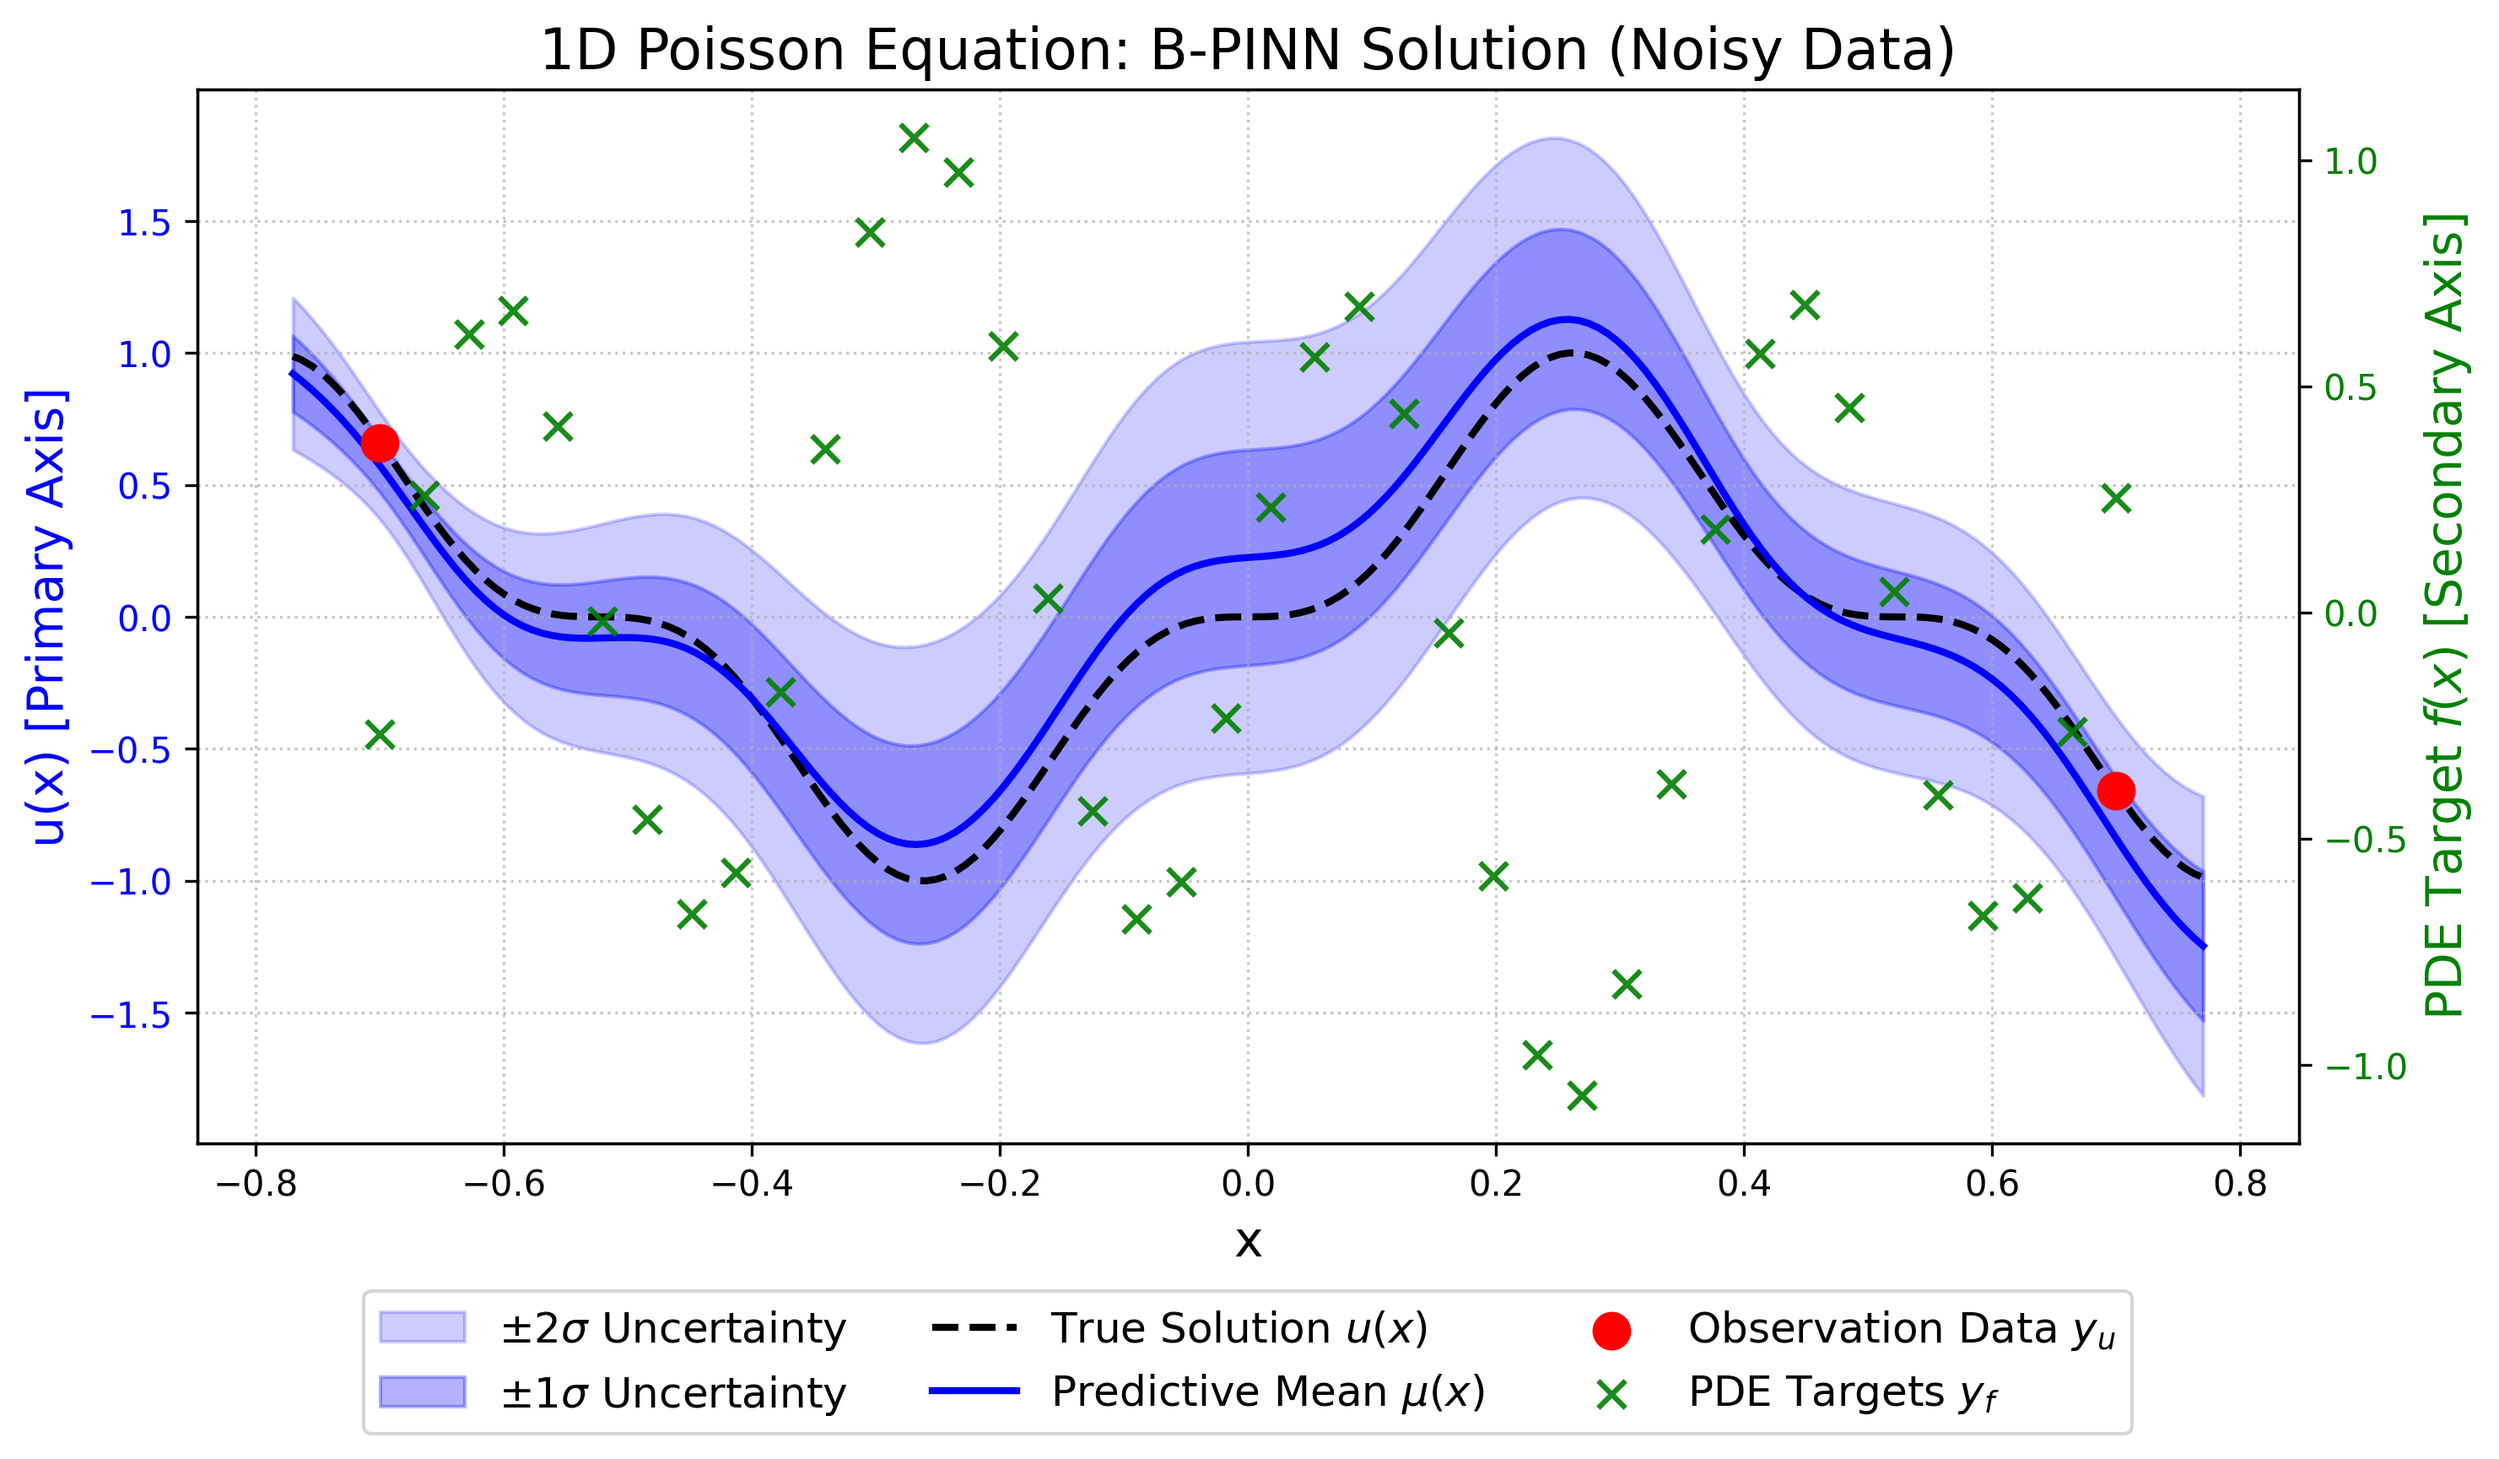
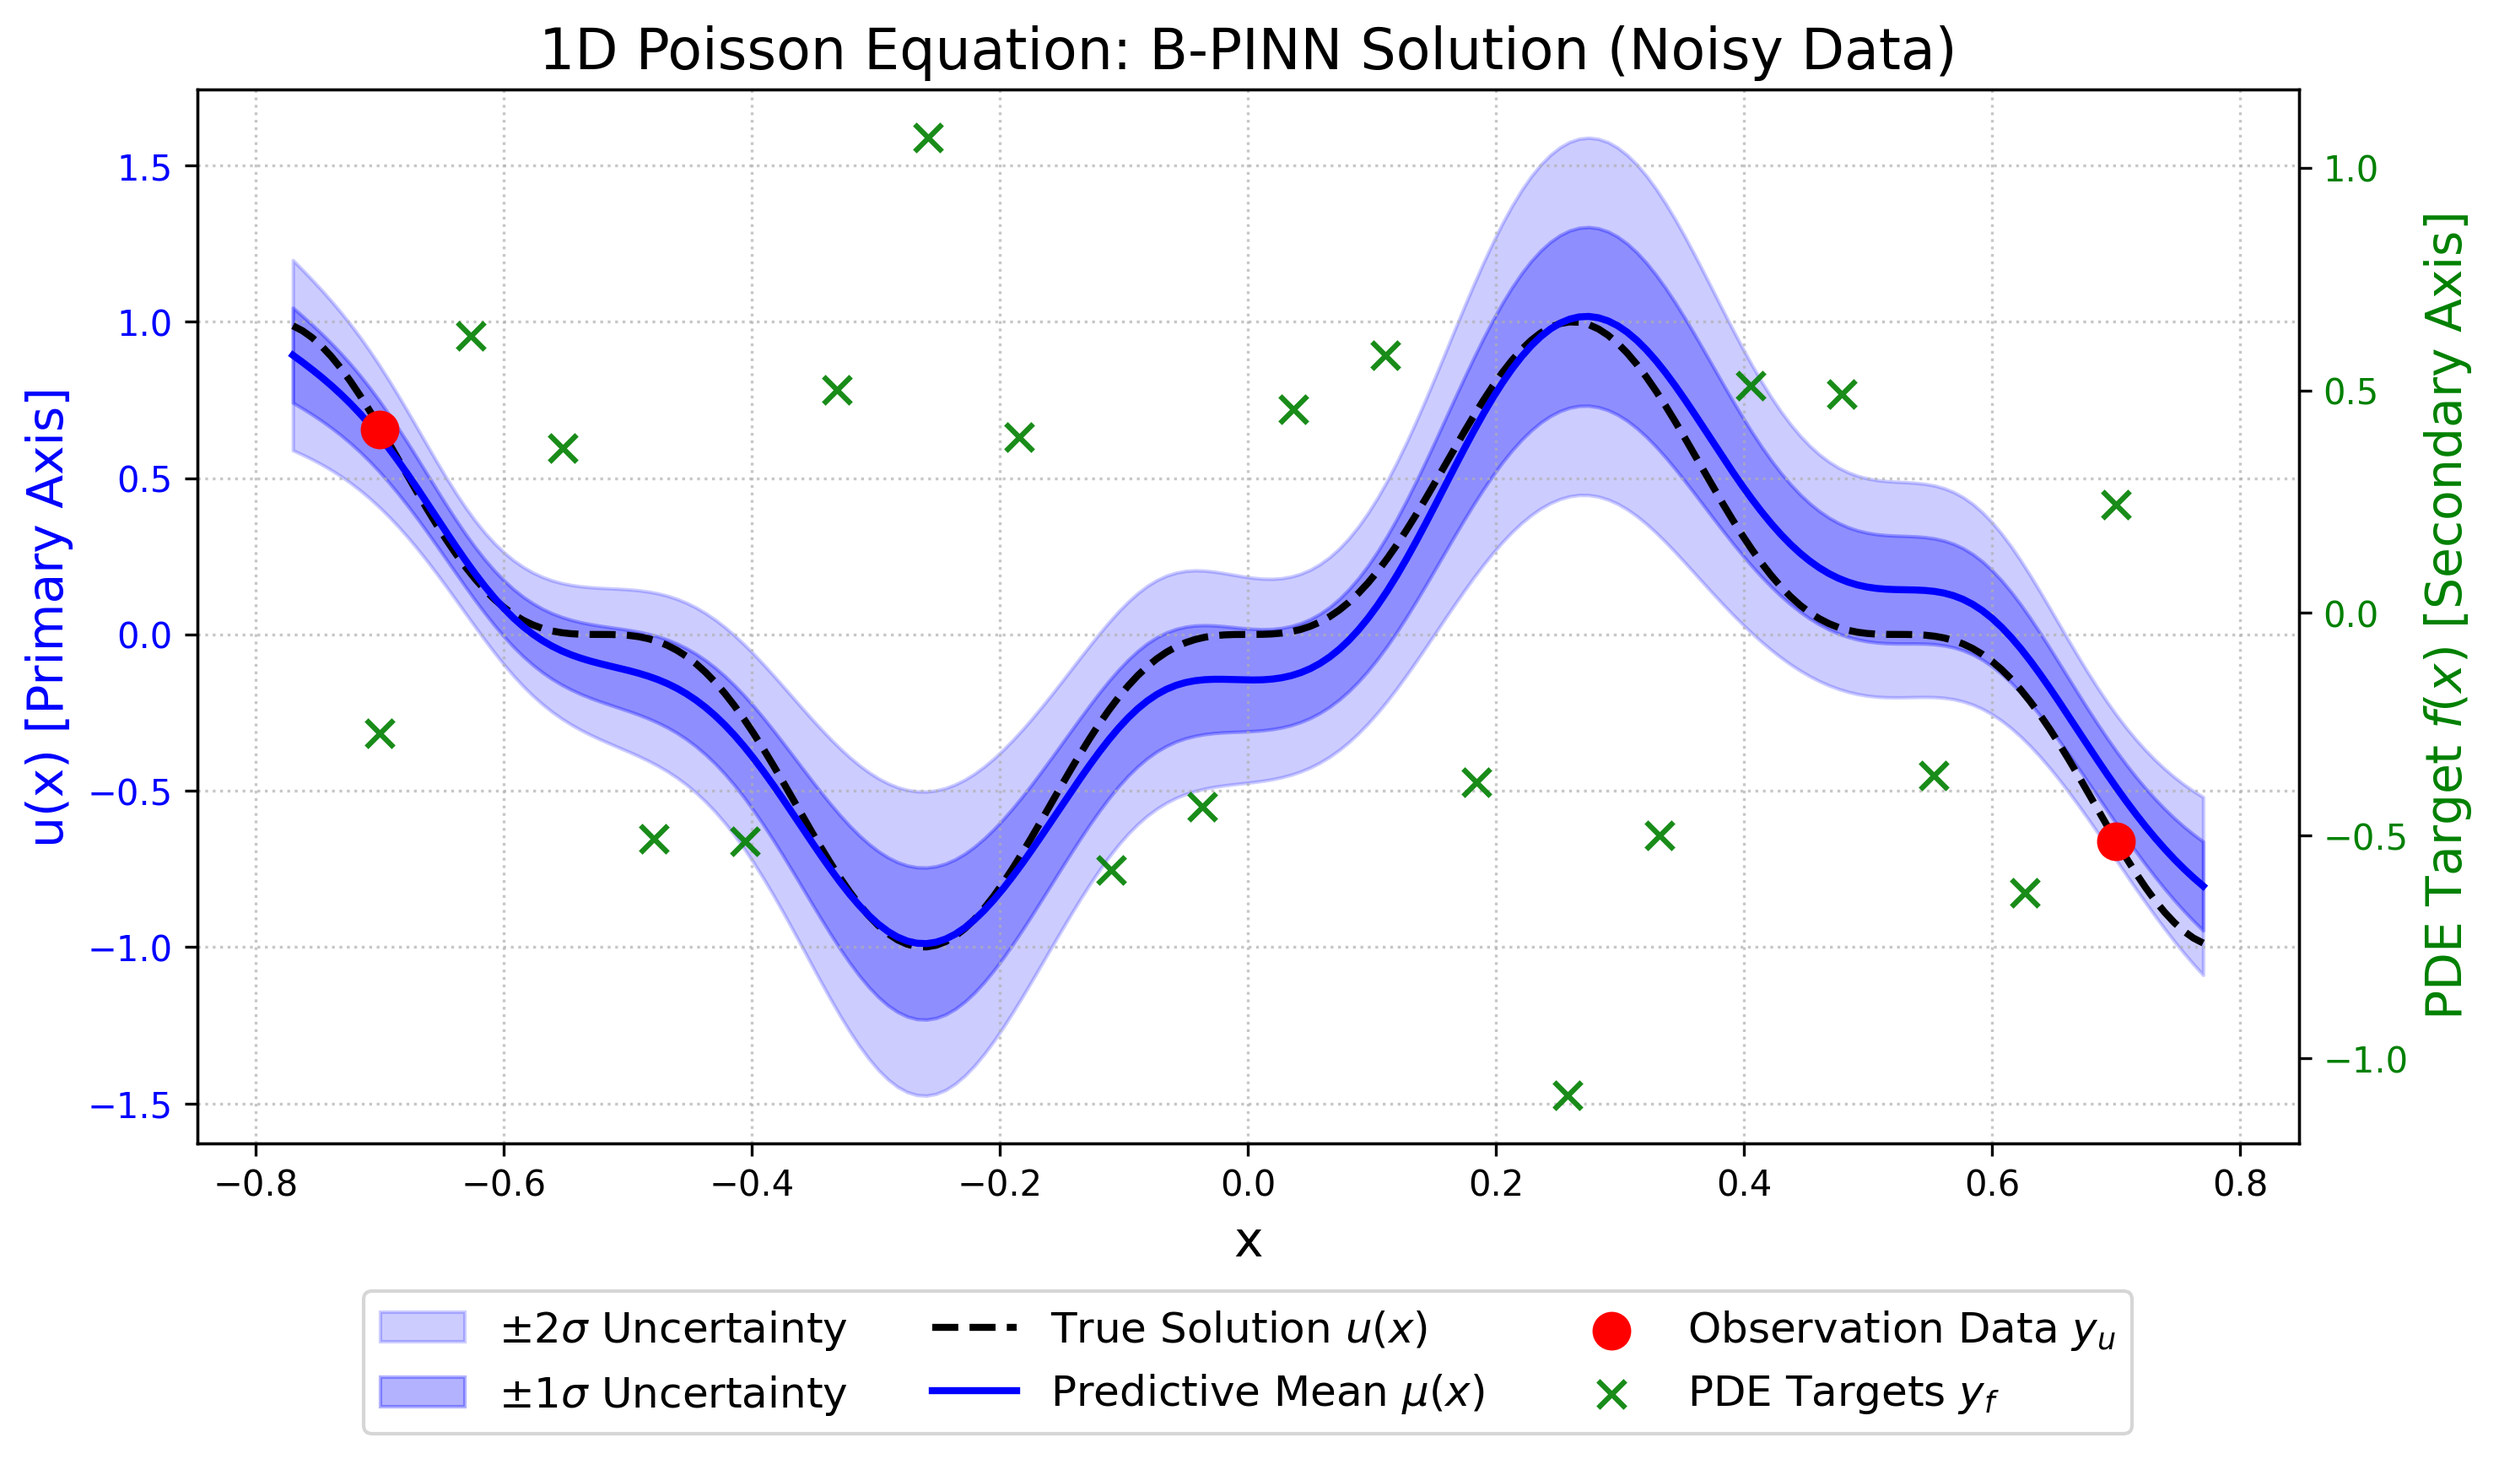
metrics & changements sur damped

diff --git a/experiments/run_damped.py b/experiments/run_damped.py
@@ -40,17 +40,28 @@ def run_damped_oscillator():
     m = 1.0
     k = 10.0
     c = 0.5
-    sigma_u = 0.00001
-    sigma_f = 0.001
+    sigma_u = 0.01
+    sigma_f = 0.01
     
     # 2. Setup Data
     # Time domain from t=0 to t=10
     # Boundary Conditions (Initial Conditions: u(0) = 1)
-    t_b = torch.tensor([[0.0]], dtype=torch.float32)
-    u_b = torch.tensor([[1.0]], dtype=torch.float32)
+    # 2. Setup Data
+    # Original point: u(0) = 1
+    t_0 = torch.tensor([[0.0]], dtype=torch.float32)
+    u_0 = torch.tensor([[1.0]], dtype=torch.float32)
+
+    # NEW: Synthetic velocity point: u(0.001) ≈ 1
+    # This forces the slope (u') to be near 0 at the start
+    t_v = torch.tensor([[0.001]], dtype=torch.float32)
+    u_v = torch.tensor([[1.0]], dtype=torch.float32)
+
+    # Combine into boundary tensors
+    t_b = torch.cat([t_0, t_v], dim=0)
+    u_b = torch.cat([u_0, u_v], dim=0)
     
     # Collocation points
-    t_f = torch.linspace(0, 2, 40).view(-1, 1).requires_grad_(True)
+    t_f = torch.linspace(0, 5, 100).view(-1, 1).requires_grad_(True)
     # Target for unforced DHO is 0 everywhere (no explicit forcing)
     u_f_target = torch.zeros_like(t_f)
     
@@ -62,7 +73,7 @@ def run_damped_oscillator():
     # =========================================================================
     print("========================================")
     print("Training Standard PINN baseline...")
-    pinn_model = PINN(input_dim=1, output_dim=1, hidden_dims=[30, 30])
+    pinn_model = PINN(input_dim=1, output_dim=1, hidden_dims=[30, 30,30])
     
     pinn_model, history = train_pinn(
         model=pinn_model,
@@ -71,7 +82,7 @@ def run_damped_oscillator():
         y_b=u_b,
         x_f=t_f,
         y_f=u_f_target,
-        epochs=2000,
+        epochs=10000,
         lr=2e-3,
         boundary_weight=70.0
     )
@@ -81,7 +92,7 @@ def run_damped_oscillator():
     # =========================================================================
     print("\n========================================")
     print("Training B-PINN (HMC)...")
-    bnn_model = BNN(input_dim=1, output_dim=1, hidden_dims=[30, 30, 30])
+    bnn_model = BNN(input_dim=1, output_dim=1, hidden_dims=[30, 30,30])
     #warm_start_bnn(pinn_model, bnn_model)
 
     samples = train_bpinn(
@@ -94,9 +105,9 @@ def run_damped_oscillator():
         sigma_u=sigma_u,  # Tight variance enforces initial condition heavily to prevent collapse
         sigma_f=sigma_f,  
         M=500,
-        N=200,
-        L=50,
-        delta_t=0.001
+        N=7000,
+        L=200,
+        delta_t=0.002
     )
 
 

diff --git a/experiments/run_poisson.py b/experiments/run_poisson.py
@@ -12,6 +12,7 @@ from src.models.BNN import BNN
 from src.physics.PDEs import Poisson1D
 from src.utils.plotting import plot_1d_pinn, plot_1d_bpinn, plot_loss_curves
 from src.utils.training import train_pinn, train_bpinn
+from src.utils.metrics import evaluate_uncertainty, compute_ece_and_plot
 
 # =========================================================================
 # This script provides a runnable comparison between PINN and B-PINN for 
@@ -74,11 +75,43 @@ def run_poisson_experiment():
         y_f=y_f,
         sigma_u=sigma_u,
         sigma_f=sigma_f,
-        M=200,       
+        M=500,       
         N=200,      
         L=20,       
         delta_t=0.01
     )
+    def true_u(x):
+        return np.sin(6 * x)**3
+        
+
+    # =========================================================================
+    # Evaluate Uncertainty Metrics (PICP & MPIW & NLL)
+    # =========================================================================
+    print("\n========================================")
+    print("Evaluating B-PINN Uncertainty Metrics...")
+    
+    # Create a dense test grid to evaluate properly
+    x_test = torch.linspace(-0.7, 0.7, 500).view(-1, 1)
+    # Get the true solution for those exact points
+    y_true_test = torch.tensor(true_u(x_test.numpy()), dtype=torch.float32)
+    
+    # Calculate using 2 standard deviations 
+    picp, mpiw, nll = evaluate_uncertainty(bnn_model, samples, x_test, y_true_test, n_std=2.0)
+    
+    print(f"Target Coverage: ~95.4% (using 2-sigma bounds)")
+    print(f"PICP: {picp * 100:.2f}% of the true solution is captured within bounds.")
+    print(f"MPIW: {mpiw:.4f} average width of the uncertainty interval.")
+    print(f"Mean NLL: {nll:.4f} (Lower is better)")
+
+    ece = compute_ece_and_plot(
+        model=bnn_model, 
+        samples=samples, 
+        x_test=x_test, 
+        y_true=y_true_test, 
+        num_bins=15, 
+        save_path="experiments/results/poisson_1d_reliability.png"
+    )
+    print(f"Expected Calibration Error (ECE): {ece:.4f}")
     
     # =========================================================================
     # Generate Plots
@@ -86,9 +119,7 @@ def run_poisson_experiment():
     print("\n========================================")
     print("Generating plots...")
     
-    def true_u(x):
-        return np.sin(6 * x)**3
-        
+
     plot_loss_curves(
         history=history,
         save_path="experiments/results/poisson_1d_loss.png"
